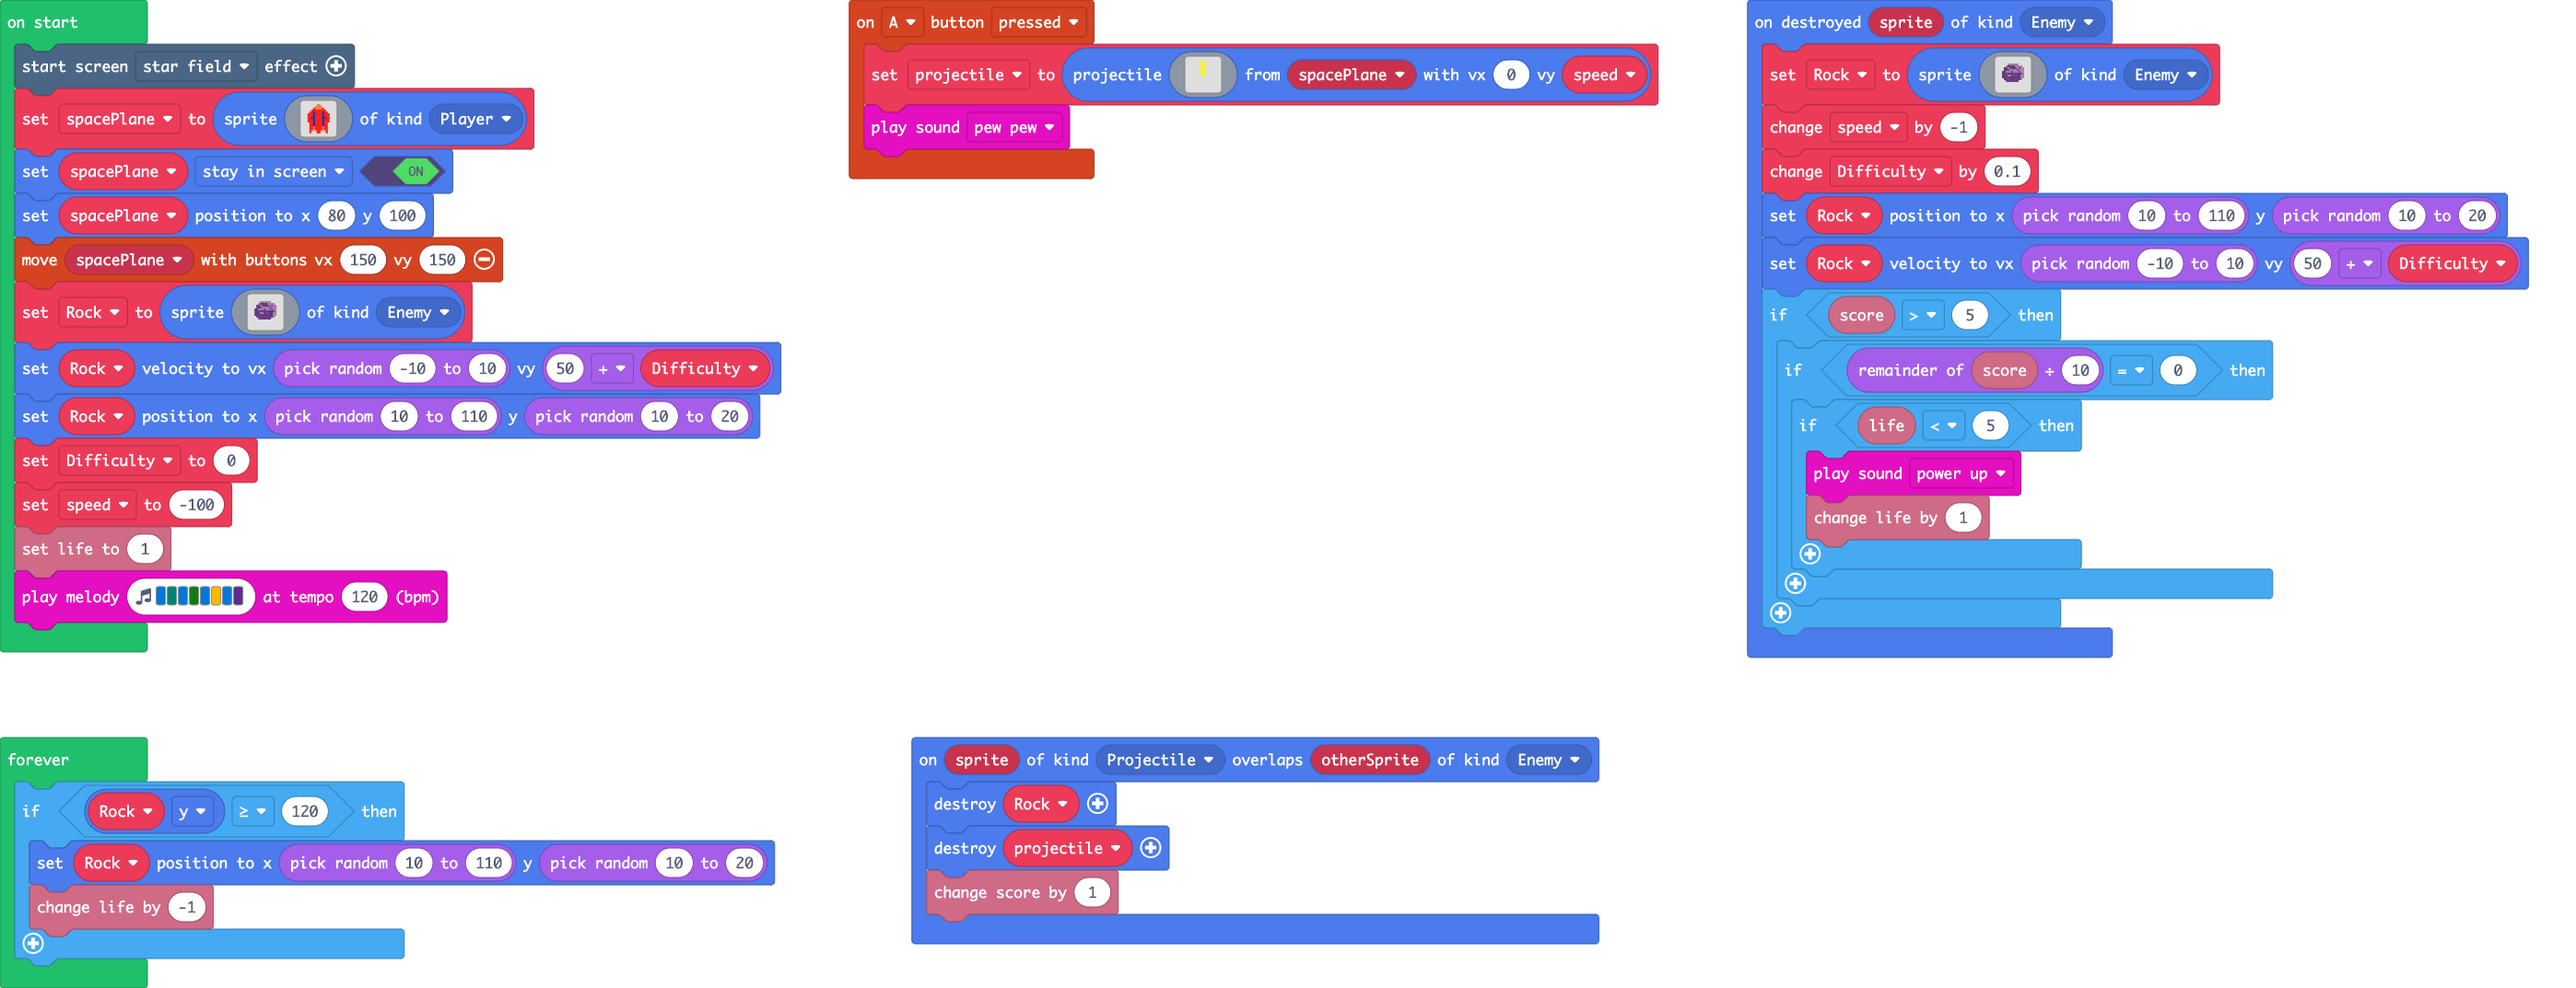
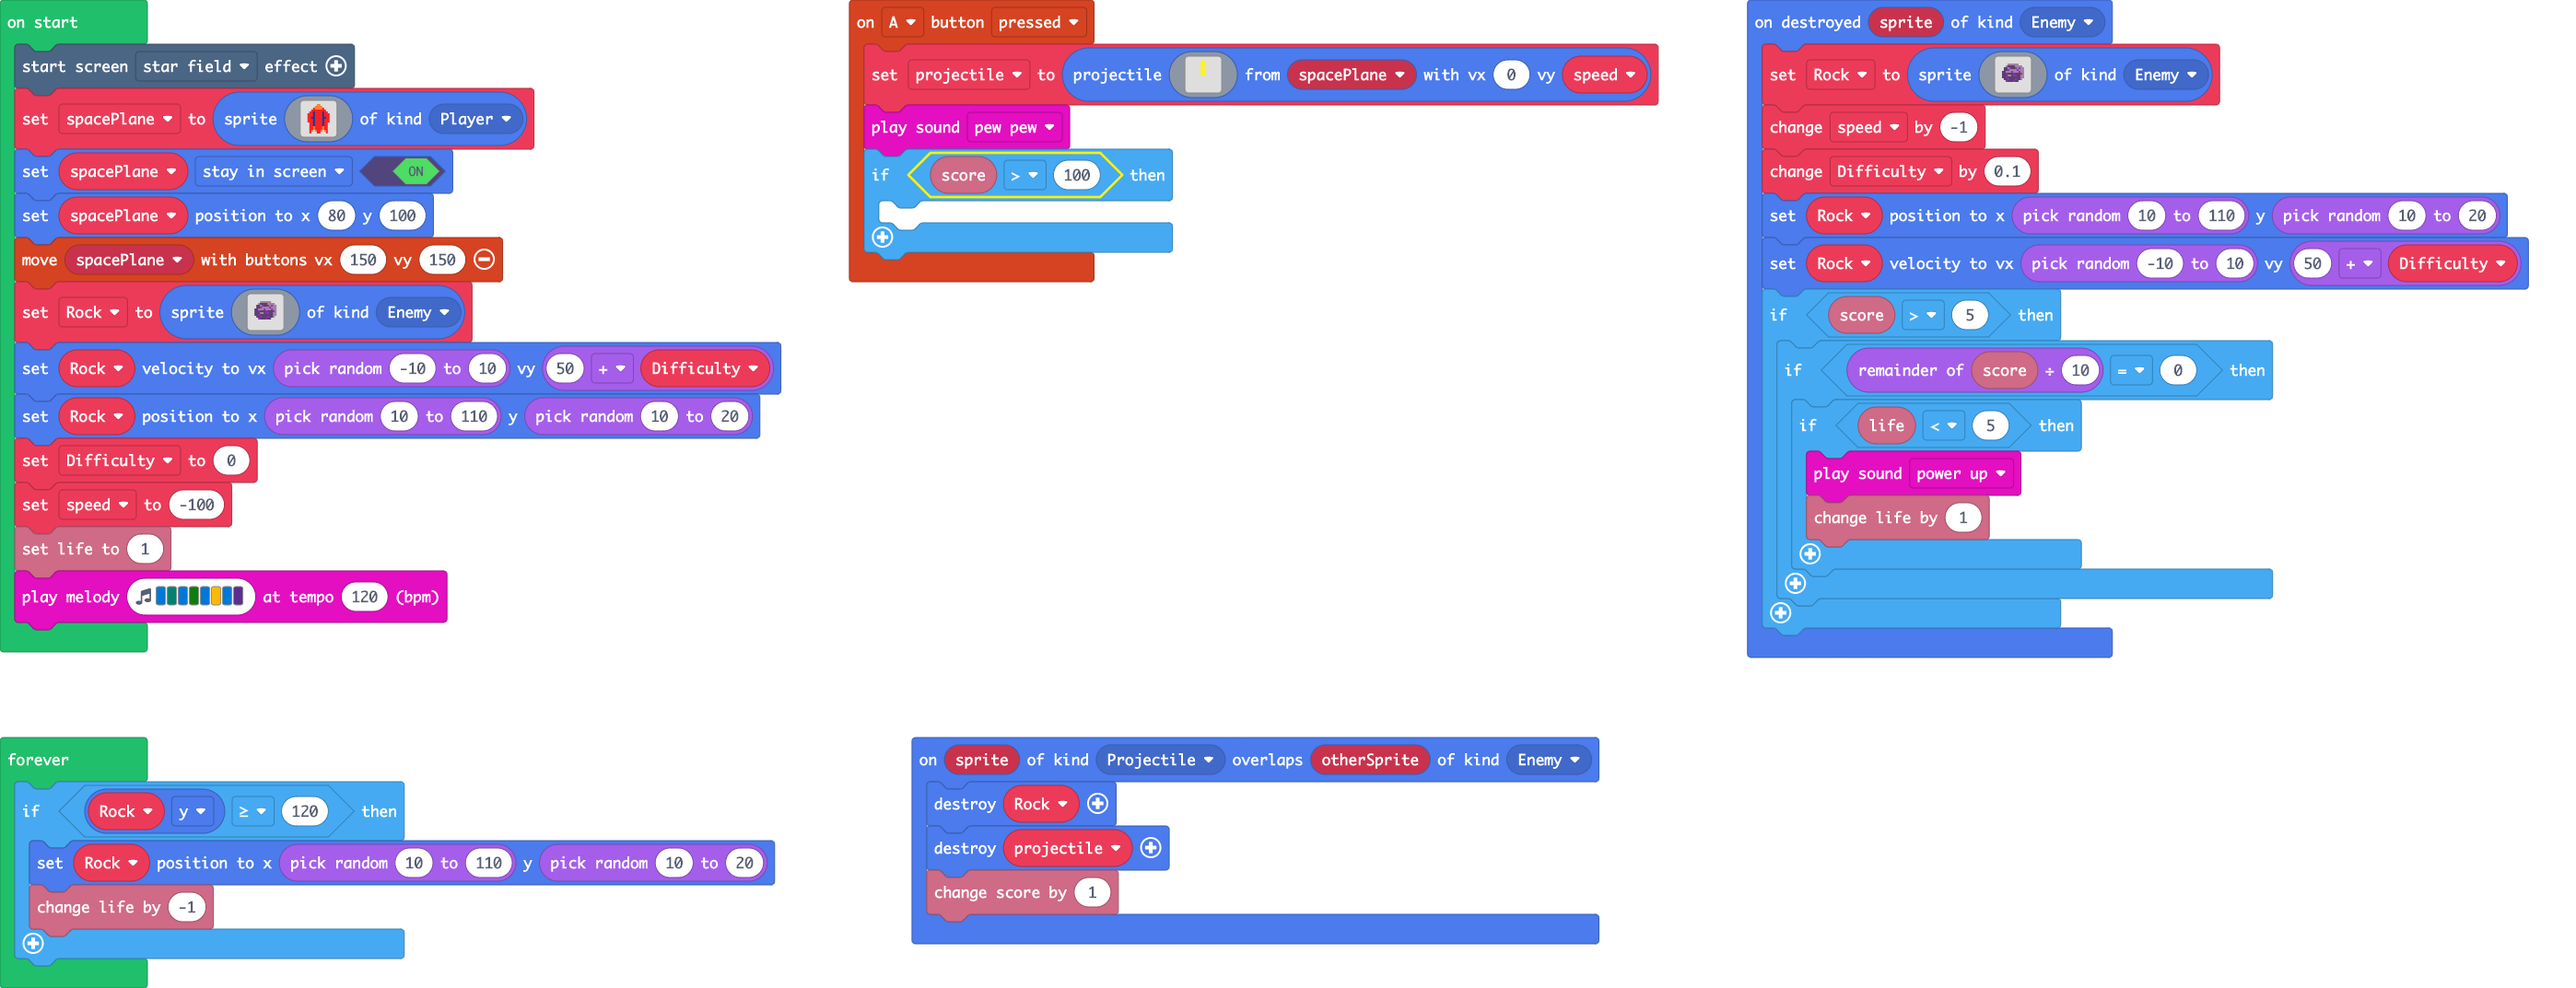
Update main.blocks, main.ts, main.py

Changed region(s): [[0.3112, 0.123, 0.4667, 0.3075]]

diff --git a/main.ts b/main.ts
@@ -20,6 +20,10 @@ controller.A.onEvent(ControllerButtonEvent.Pressed, function on_a_pressed() {
                     . . . . . . . . . . . . . . . . .
         `, spacePlane, 0, speed)
     music.pewPew.play()
+    if (info.score() > 100) {
+        
+    }
+    
 })
 sprites.onDestroyed(SpriteKind.Enemy, function on_on_destroyed(sprite: Sprite) {
     

diff --git a/main.py b/main.py
@@ -23,6 +23,8 @@ def on_a_pressed():
         0,
         speed)
     music.pew_pew.play()
+    if info.score() > 100:
+        pass
 controller.A.on_event(ControllerButtonEvent.PRESSED, on_a_pressed)
 
 def on_on_destroyed(sprite):
